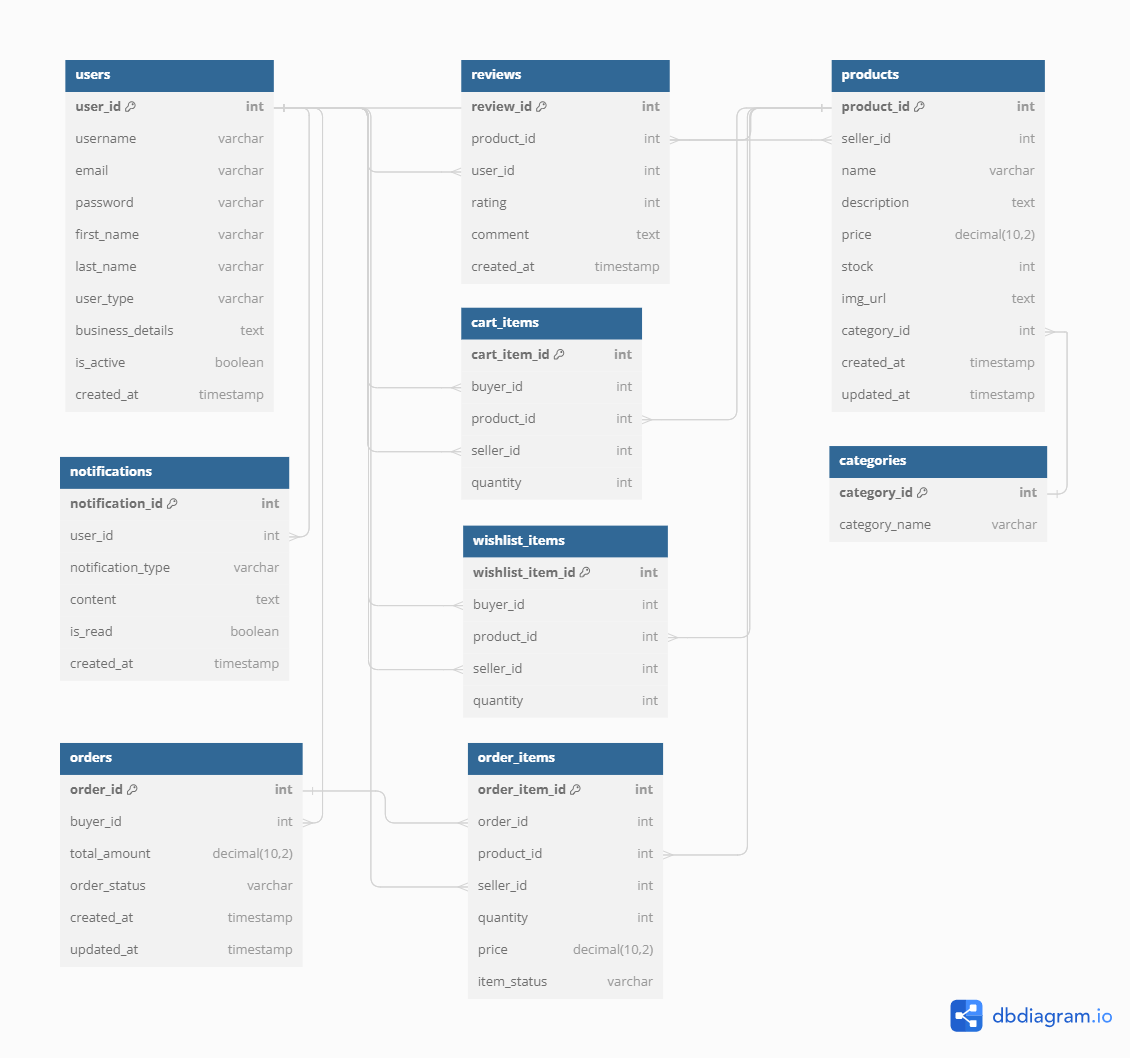
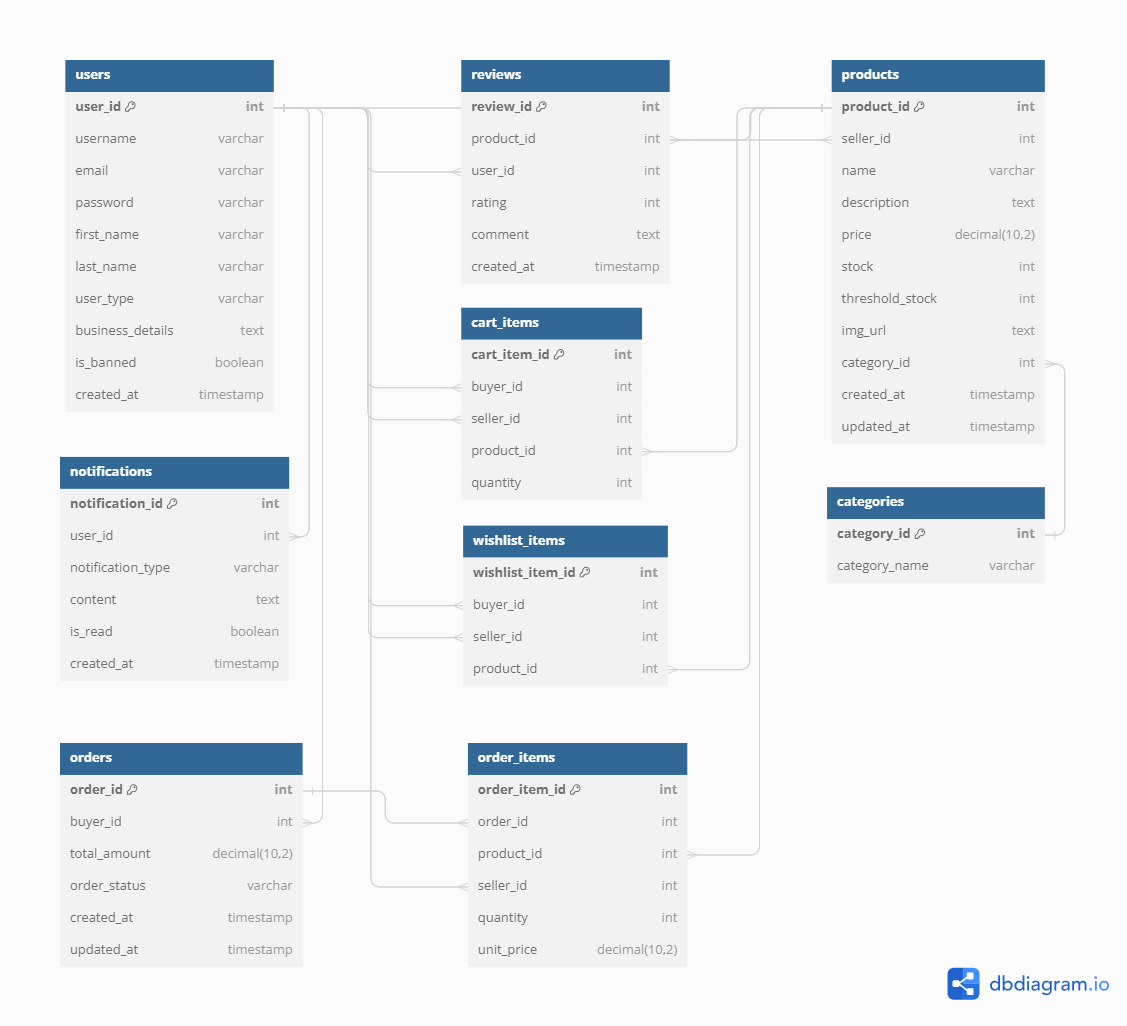
models edited after meeting with group

diff --git a/server/RevShop/src/main/java/net/revature/RevShop/Models/User.java b/server/RevShop/src/main/java/net/revature/RevShop/Models/User.java
@@ -24,7 +24,7 @@ public class User {
     private String firstName;
     private String lastName;
     private String businessDetails;
-    private Boolean isActive;
+    private Boolean isBanned; // default false
 
     @Enumerated(EnumType.STRING)
     private UserType userType;
@@ -39,6 +39,7 @@ public class User {
     @CreationTimestamp
     private LocalDateTime createdAt;
 
+    // One to Many
     @OneToMany(mappedBy = "user")
     private Set<Notification> notifications = new HashSet<>();
 

diff --git a/server/RevShop/src/main/java/net/revature/RevShop/Models/OrderItem.java b/server/RevShop/src/main/java/net/revature/RevShop/Models/OrderItem.java
@@ -22,18 +22,11 @@ public class OrderItem {
     @JoinColumn(name = "productId")
     private Product product;
 
+    // number can't be negative
     private Integer quantity;
-    private Double price;
 
-    @Enumerated(EnumType.STRING)
-    private ItemStatus itemStatus;
-
-    public enum ItemStatus {
-        PLACED,
-        SHIPPED,
-        DELIVERED,
-        CANCELLED
-    }
+    // number can't be negative
+    private Double unitPrice;
 
 
 }

diff --git a/server/RevShop/src/main/java/net/revature/RevShop/Models/Order.java b/server/RevShop/src/main/java/net/revature/RevShop/Models/Order.java
@@ -20,6 +20,7 @@ public class Order {
     @JoinColumn(name = "userId")
     private User buyer;
 
+    // number can't be negative
     private Double totalAmount;
 
     @Enumerated(EnumType.STRING)
@@ -27,9 +28,7 @@ public class Order {
 
     public enum OrderStatus {
         PLACED,
-        PARTIALLY_SHIPPED,
         SHIPPED,
-        PARTIALLY_DELIVERED,
         DELIVERED,
         CANCELLED
     }

diff --git a/server/RevShop/src/main/java/net/revature/RevShop/Models/Product.java b/server/RevShop/src/main/java/net/revature/RevShop/Models/Product.java
@@ -22,8 +22,12 @@ public class Product {
 
     private String name;
     private String description;
+
+    // numbers can't be negative
     private Double price;
     private Integer stock;
+    private Integer thresholdStock;
+
     private String img_url;
 
     @ManyToOne

diff --git a/server/RevShop/src/main/java/net/revature/RevShop/Models/Review.java b/server/RevShop/src/main/java/net/revature/RevShop/Models/Review.java
@@ -21,6 +21,7 @@ public class Review {
     @JoinColumn(name = "productId")
     private Product product;
 
+    // Rating needs to be between 1 - 5
     private Integer rating;
     private String comment;
 

diff --git a/server/RevShop/src/main/java/net/revature/RevShop/Models/WishlistItem.java b/server/RevShop/src/main/java/net/revature/RevShop/Models/WishlistItem.java
@@ -22,7 +22,4 @@ public class WishlistItem {
     @JoinColumn(name = "productId")
     private Product product;
 
-    private Integer quantity;
-
-
 }
